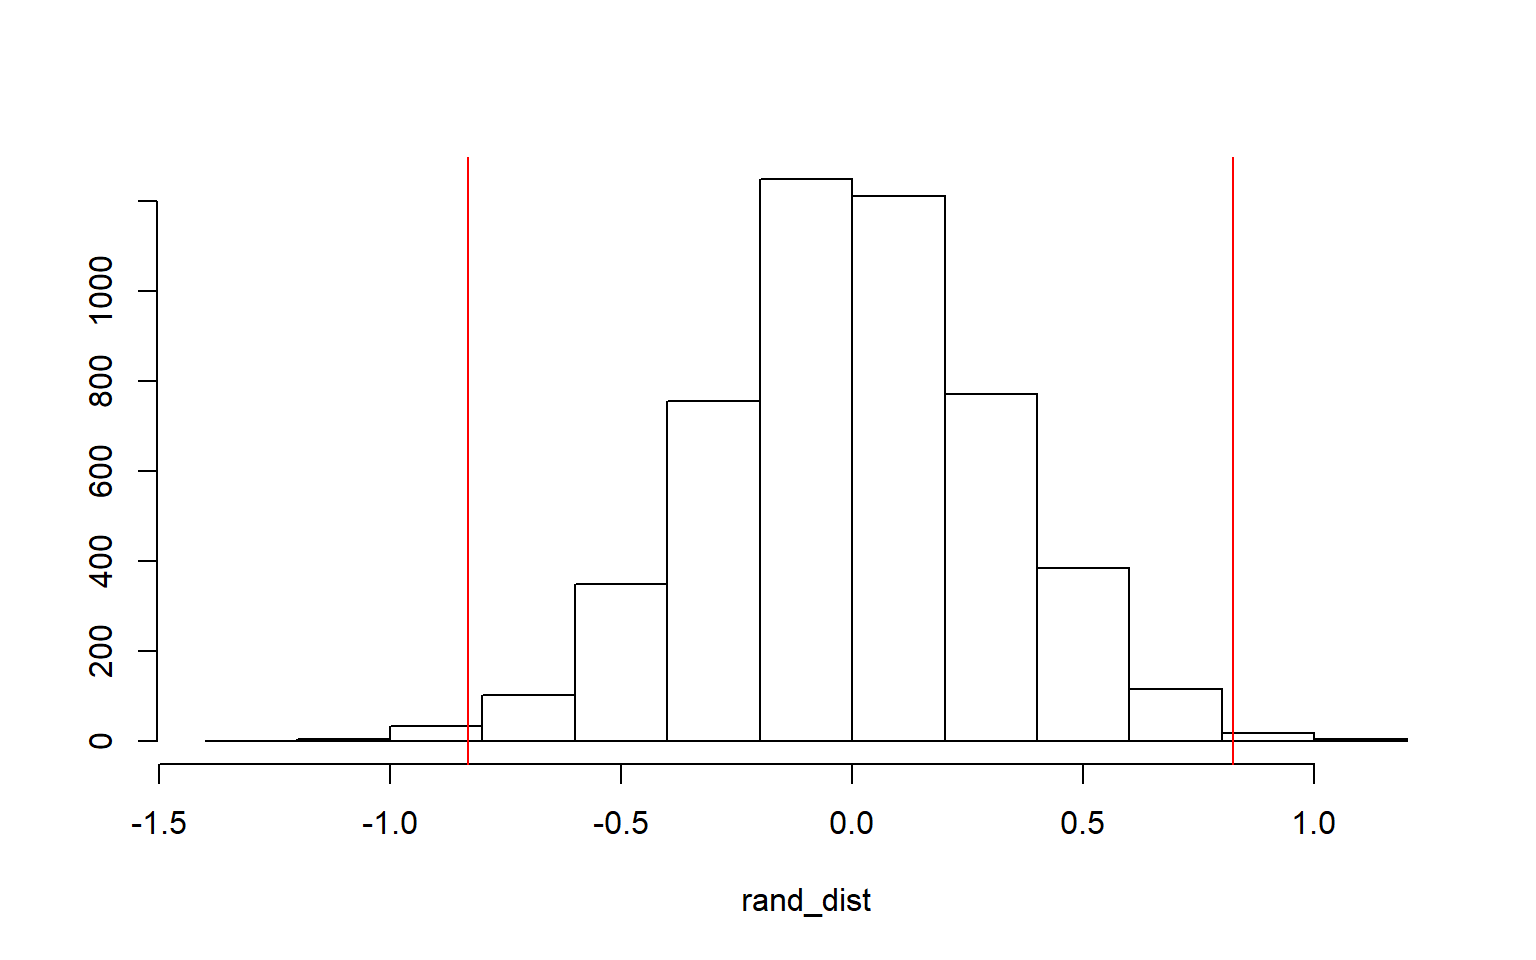
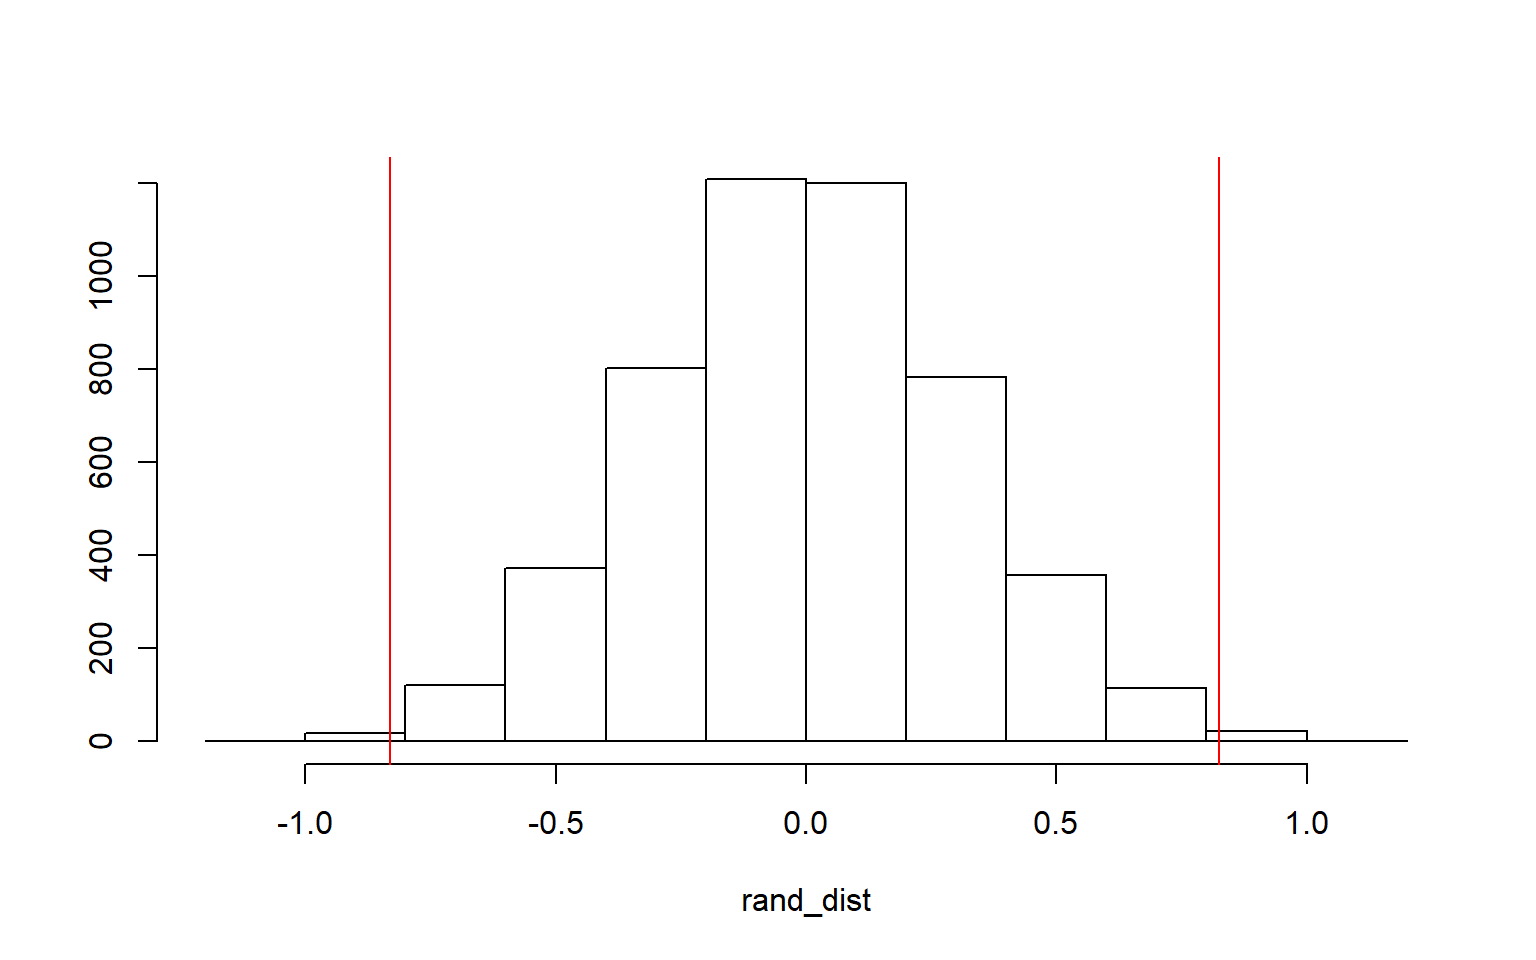
first commit

diff --git a/content/project2.html b/content/project2.html
@@ -1,7 +1,7 @@
 ---
 title: 'Project 2'
 author: 'Noah Collaco'
-date: "2020-05-06"
+
 slug: new-post
 categories: []
 tags: []
@@ -10,8 +10,6 @@ description: ''
 
 
 
-<div id="noah-collaco-nkc383" class="section level1">
-<h1>Noah Collaco nkc383</h1>
 <pre class="r"><code>class_diag &lt;- function(probs,truth){
   
   #CONFUSION MATRIX: CALCULATE ACCURACY, TPR, TNR, PPV
@@ -168,7 +166,6 @@ glimpse(project2)</code></pre>
 ## $ `Rural/Urban` &lt;chr&gt; &quot;Mostly Rural&quot;, &quot;Mostly Urban&quot;,
 &quot;Mostly Urban&quot;, &quot;Mostly Urban&quot;, &quot;M...</code></pre>
 <p>This project uses data from the 2019 County Health Rankings for Texas and the USDA ERS Educational Attainment Data.. Each of the data sources were filtered for Texas counties. I wanted to compared how different variables affected Life Expectancy within a county. The variables that were chosen were Obesity Rate, Inactivty Rate, Smoking Rate, Food Insecurity Rate, percent Uninsured, Diabetes Rate, Percent of a county with a bachelors degree, Food Environemnt Index, Percen Insufficient Sleep, percent Excessive drinking, and Percent Rural. The dataset was then filtered to get rid of NAs as there were some counties without measurements for Life Expectancy. This brought down the number of observations from 254 counties to 237 counties.The percent Rural variable was also mutated to be a categorical variable of Mostly Rural and Mostly Urban.</p>
-</div>
 <div id="manova" class="section level1">
 <h1>Manova</h1>
 <pre class="r"><code>man1&lt;-manova(cbind(Lifeexpt, pctObese, pctInactive, pctSmokers, pctFDInsecure, pctDiabetes,pctBachelors,medianincome,pctinsufficientsleep,pctexcessdrinking )~`Rural/Urban`, data=project2)
@@ -370,7 +367,7 @@ rand_dist[i]&lt;-mean(new[new$urbanorurual==&quot;Mostly Urban&quot;,]$Lifeexp)-
 
 
 mean(rand_dist&lt; -.8304265        | rand_dist&gt;0.8304265      )</code></pre>
-<pre><code>## [1] 0.0094</code></pre>
+<pre><code>## [1] 0.0052</code></pre>
 <pre class="r"><code>hist(rand_dist, main = &quot;&quot;, ylab = &quot;&quot;); abline(v=-0.8304265  , col=&quot;red&quot;);abline(v=0.8247375 , col=&quot;red&quot;)</code></pre>
 <p><img src="/project2_files/figure-html/unnamed-chunk-4-1.png" width="768" style="display: block; margin: auto;" />
 A randomization test was performed on one of the variables that was significant in the univariate ANOVAS, Life expectancy. The randomization test was performed for the mean differences between the Mostly Urban and Mostly Rural counties. The null hypothesis is that the differences in the means are equal to zero. The alternative hypothesis is that the differences in the means between the two group are not equal to zero. The differences in the mean between the rural and urban counties in the dataset is .84042. The two-tailed p-value is computed by seeing the proportion of the mean differnces under the simulated null hypothesis that are more extreme than the actual value of plus or minus .8304265. Ultimately the computed p-value was .0076, which is well below the necessary p-value of .05. This means that the null hypothesis can be rejected and we can conclude that there is indeed a significant difference in the means between the two groups.</p>
@@ -597,23 +594,23 @@ coef(fit)
 samp_distn%&gt;% t%&gt;% as.data.frame%&gt;% summarize_all(sd)</code></pre>
 <pre><code>## (Intercept) pctObese_c pctSmokers_c pctFDInsecure_c
 pctexcessdrinking_c pctObese_c:pctSmokers_c
-## 1 0.1374589 0.02839079 0.1523727 0.04457916 0.1346517
-0.02499115
+## 1 0.1392767 0.02867634 0.1525738 0.04545518 0.1369758
+0.02471117
 ## pctObese_c:pctFDInsecure_c pctSmokers_c:pctFDInsecure_c
 pctObese_c:pctexcessdrinking_c
-## 1 0.008901915 0.03274048 0.0220476
+## 1 0.00890344 0.03215733 0.02207007
 ## pctSmokers_c:pctexcessdrinking_c
 pctFDInsecure_c:pctexcessdrinking_c
-## 1 0.0728172 0.03696841
+## 1 0.07492971 0.03678984
 ## pctObese_c:pctSmokers_c:pctFDInsecure_c
 pctObese_c:pctSmokers_c:pctexcessdrinking_c
-## 1 0.005794588 0.01170797
+## 1 0.005751567 0.01184914
 ## pctObese_c:pctFDInsecure_c:pctexcessdrinking_c
 pctSmokers_c:pctFDInsecure_c:pctexcessdrinking_c
-## 1 0.007866544 0.02157158
+## 1 0.007812194 0.0216648
 ##
 pctObese_c:pctSmokers_c:pctFDInsecure_c:pctexcessdrinking_c
-## 1 0.004222526</code></pre>
+## 1 0.004139416</code></pre>
 <p>The SE in the bootstrapped model has standard errors that are smaller than both the original and robust standard errors that were calculated previously.</p>
 </div>
 <div id="logistic-regression" class="section level1">

diff --git a/public/blog/learning-python/index.html b/public/blog/learning-python/index.html
@@ -7,7 +7,7 @@
     <meta name="author" content="Noah Collaco" />
     <meta name="description" content="Describe your website">
     <link rel="shortcut icon" type="image/x-icon" href="/img/favicon.ico">
-    <title>Learning Python!</title>
+    <title>Python vs R </title>
     <meta name="generator" content="Hugo 0.70.0" />
     <link rel="stylesheet" href="https://maxcdn.bootstrapcdn.com/bootstrap/3.3.7/css/bootstrap.min.css" integrity="sha384-BVYiiSIFeK1dGmJRAkycuHAHRg32OmUcww7on3RYdg4Va+PmSTsz/K68vbdEjh4u" crossorigin="anonymous">
     <link rel="stylesheet" type="text/css" href="/css/main.css" />
@@ -56,7 +56,7 @@
       <div class="container">
         <div class="blog-post">
           <h3>
-            <strong><a href="/blog/learning-python/">Learning Python!</a></strong>
+            <strong><a href="/blog/learning-python/">Python vs R </a></strong>
           </h3>
         </div>
         <div class="blog-title">
@@ -167,7 +167,7 @@ fit.summary()</code></pre>
 ## Model:                            OLS   Adj. R-squared:                  0.075
 ## Method:                 Least Squares   F-statistic:                     20.16
 ## Date:                Sat, 09 May 2020   Prob (F-statistic):           1.11e-05
-## Time:                        17:06:47   Log-Likelihood:                -535.07
+## Time:                        17:08:37   Log-Likelihood:                -535.07
 ## No. Observations:                 237   AIC:                             1074.
 ## Df Residuals:                     235   BIC:                             1081.
 ## Df Model:                           1                                         

diff --git a/public/new-post/index.html b/public/new-post/index.html
@@ -61,7 +61,7 @@
         </div>
         <div class="blog-title">
           <h4>
-          May 6, 2020
+          March 13, 2020
             &nbsp;&nbsp;
             
           </h4>
@@ -72,8 +72,6 @@
               
 
 
-<div id="r-markdown" class="section level2">
-<h2>R Markdown</h2>
 <pre class="r"><code>library(tidyverse)
 library(readxl)
 library(kableExtra)
@@ -961,7 +959,6 @@ This visualization does not show any clear distinction between clusters. This me
     ylab(&quot;Median Household Income&quot;)</code></pre>
 <p><img src="/project1_files/figure-html/unnamed-chunk-16-1.png" width="672" style="display: block; margin: auto;" /></p>
 <p>This second visualization captures the distinction between the clusters. The clusters seem to be determined by Median Household Income with the cutoff between clusters occuring around $50,000. Median Income seems to be the main differentiating factor between these two clusters.</p>
-</div>
 
               <hr>
               <div class="related-posts">

diff --git a/content/project1.html b/content/project1.html
@@ -1,7 +1,7 @@
 ---
 title: 'Project 1'
 author: 'Noah Collaco'
-date: "2020-05-06"
+date: '2020-03-13'
 slug: new-post
 categories: []
 tags: []
@@ -10,8 +10,6 @@ description: ''
 
 
 
-<div id="r-markdown" class="section level2">
-<h2>R Markdown</h2>
 <pre class="r"><code>library(tidyverse)
 library(readxl)
 library(kableExtra)
@@ -899,4 +897,3 @@ This visualization does not show any clear distinction between clusters. This me
     ylab(&quot;Median Household Income&quot;)</code></pre>
 <p><img src="/project1_files/figure-html/unnamed-chunk-16-1.png" width="672" style="display: block; margin: auto;" /></p>
 <p>This second visualization captures the distinction between the clusters. The clusters seem to be determined by Median Household Income with the cutoff between clusters occuring around $50,000. Median Income seems to be the main differentiating factor between these two clusters.</p>
-</div>

diff --git a/content/blog/2020-05-08-learning-python.html b/content/blog/2020-05-08-learning-python.html
@@ -1,5 +1,5 @@
 ---
-title: "Learning Python!"
+title: "Python vs R "
 author: 'Noah Collaco '
 date: '2020-05-09'
 output:
@@ -109,7 +109,7 @@ fit.summary()</code></pre>
 ## Model:                            OLS   Adj. R-squared:                  0.075
 ## Method:                 Least Squares   F-statistic:                     20.16
 ## Date:                Sat, 09 May 2020   Prob (F-statistic):           1.11e-05
-## Time:                        17:06:47   Log-Likelihood:                -535.07
+## Time:                        17:08:37   Log-Likelihood:                -535.07
 ## No. Observations:                 237   AIC:                             1074.
 ## Df Residuals:                     235   BIC:                             1081.
 ## Df Model:                           1                                         

diff --git a/public/blog/index.html b/public/blog/index.html
@@ -64,7 +64,7 @@
                  </div>
                  <div class="col-sm-8 col-md-8 col-lg-8">
                    <h5 style="text-align: left">
-                    <strong><a href="/blog/learning-python/">Learning Python!</a></strong>
+                    <strong><a href="/blog/learning-python/">Python vs R</a></strong>
                   </h5>
                 </div>
               </div>
